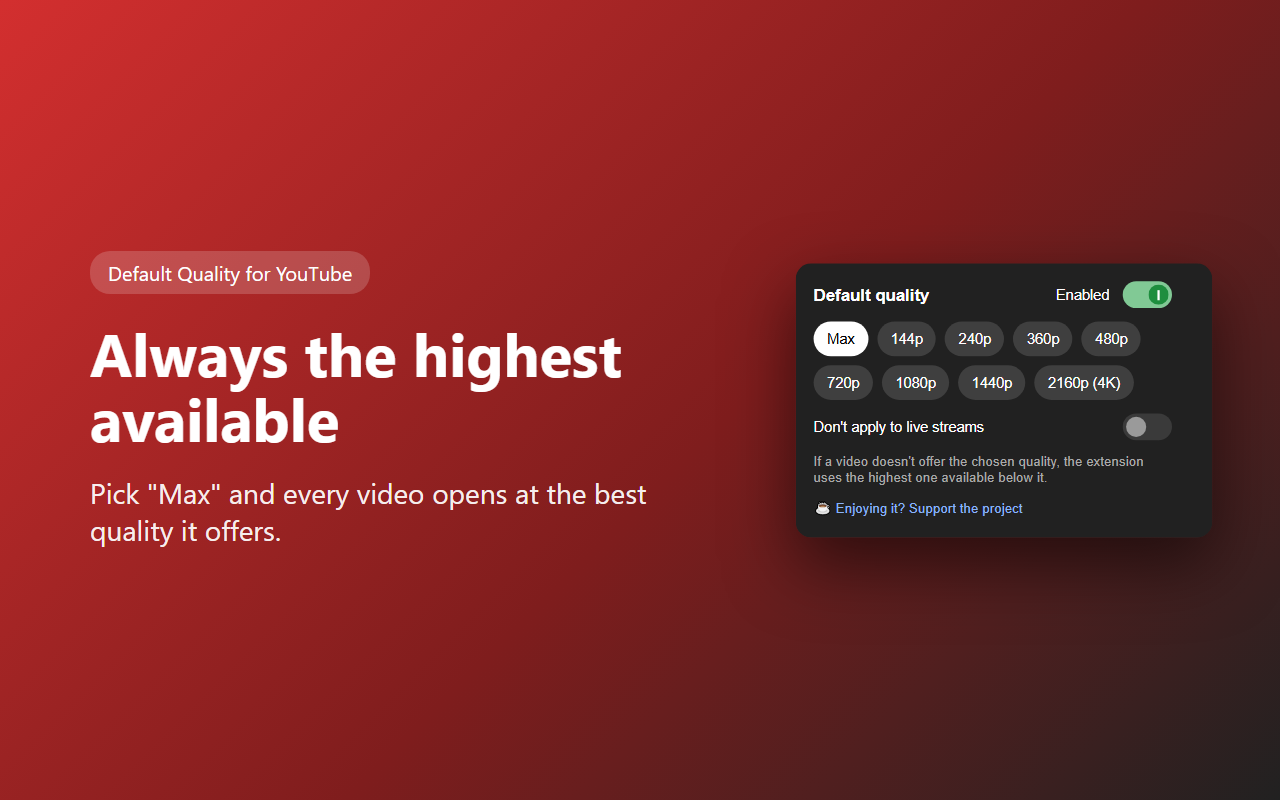
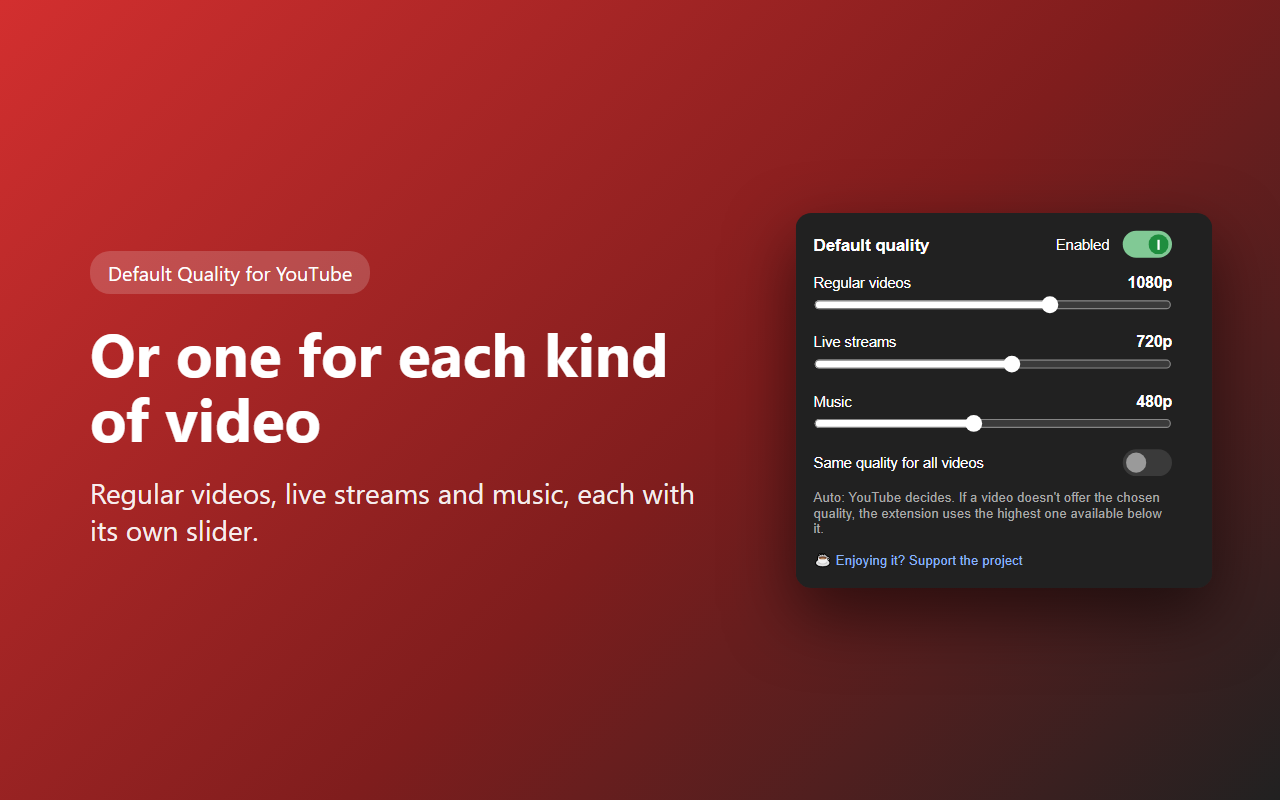
Qualidade por tipo de vídeo, com opção de mesma qualidade para todos

Changed region(s): [[0.625, 0.25, 0.9688, 0.7812], [0.0625, 0.4062, 0.5312, 0.5625], [0.0625, 0.5938, 0.5625, 0.6875]]

diff --git a/main.js b/main.js
@@ -1,4 +1,4 @@
-// Roda no contexto da própria página (world: MAIN) para usar a API do player do YouTube.
+// Roda no contexto da própria página (world MAIN) para usar a API do player do YouTube.
 (() => {
   // Do menor ao maior; "highres" é qualquer coisa acima de 4K.
   const ORDER = ["tiny", "small", "medium", "large", "hd720", "hd1080", "hd1440", "hd2160", "highres"];
@@ -35,14 +35,35 @@
     return levels.reduce((a, b) => (ORDER.indexOf(b) < ORDER.indexOf(a) ? b : a));
   }
 
-  function setQuality() {
+  // Qualidade que deve valer para o vídeo atual, ou null para deixar o YouTube decidir.
+  // "final" = última tentativa: aceita seguir sem saber a categoria do vídeo.
+  function target(final) {
     const c = cfg();
     const p = player();
-    if (!c || !c.enabled || !p) return;
+    if (!c || !c.enabled || !p) return null;
     const d = (typeof p.getVideoData === "function" && p.getVideoData()) || {};
-    if (c.ignoreLive && d.isLive) return;
-    const q = pick(c.quality, p.getAvailableQualityLevels() || []);
-    if (!q) return;
+    const r = (typeof p.getPlayerResponse === "function" && p.getPlayerResponse()) || null;
+    const vd = (r && r.videoDetails) || {};
+    // Durante a troca de vídeo a resposta pode ser a do anterior: espera a próxima tentativa.
+    const known = !r || (vd.videoId && (!d.video_id || vd.videoId === d.video_id));
+    if (!known && !final) return null;
+    const mf = known && r && r.microformat && r.microformat.playerMicroformatRenderer;
+    const kind = c.sameQuality
+      ? "Normal"
+      : d.isLive || vd.isLive
+        ? "Live"
+        : mf && mf.category === "Music"
+          ? "Music"
+          : "Normal";
+    const want = c["quality" + kind];
+    if (!want || want === "auto") return null;
+    return pick(want, p.getAvailableQualityLevels() || []);
+  }
+
+  function setQuality(final) {
+    const p = player();
+    const q = target(final);
+    if (!p || !q) return;
     if (typeof p.setPlaybackQualityRange === "function") p.setPlaybackQualityRange(q, q);
     if (typeof p.setPlaybackQuality === "function") p.setPlaybackQuality(q);
   }
@@ -54,9 +75,11 @@
     const key = v ? v.currentSrc || v.src || location.href : location.href;
     if (!force && key === lastKey) return; // uma vez por vídeo; mudanças manuais ficam
     lastKey = key;
-    setQuality();
-    // A lista de qualidades só fica completa depois de um tempo e o player às vezes reseta; reaplica.
-    [300, 1000, 2500].forEach((ms) => setTimeout(setQuality, ms));
+    setQuality(false);
+    // A lista de qualidades e a categoria só ficam completas depois de um tempo e o player
+    // às vezes reseta; reaplica.
+    [300, 1000].forEach((ms) => setTimeout(() => setQuality(false), ms));
+    setTimeout(() => setQuality(true), 2500);
   }
 
   ["loadedmetadata", "playing"].forEach((ev) =>
@@ -72,12 +95,11 @@
   document.addEventListener("yt-default-quality-changed", () => {
     apply(true);
     setTimeout(() => {
-      const c = cfg();
       const p = player();
-      if (!c || !c.enabled || !p || typeof p.getPlaybackQuality !== "function") return;
-      const want = pick(c.quality, p.getAvailableQualityLevels() || []);
-      if (want && p.getPlaybackQuality() !== want && typeof p.seekTo === "function") {
-        setQuality();
+      const q = target(true);
+      if (!p || !q || typeof p.getPlaybackQuality !== "function") return;
+      if (p.getPlaybackQuality() !== q && typeof p.seekTo === "function") {
+        setQuality(true);
         p.seekTo(p.getCurrentTime(), true);
       }
     }, 700);

diff --git a/popup.js b/popup.js
@@ -6,31 +6,57 @@ document.querySelectorAll("[data-i18n]").forEach((el) => (el.textContent = t(el.
 
 let state = { ...DQ_DEFAULTS };
 
-// "Máxima" primeiro, depois cada nível do menor ao maior.
-const OPTIONS = [["max", t("max")], ...DQ_LEVELS];
-const buttons = OPTIONS.map(([value, label]) => {
-  const b = document.createElement("button");
-  b.className = "level";
-  b.textContent = label;
-  b.onclick = () => {
-    state.quality = value;
-    render();
-    chrome.storage.sync.set({ quality: value });
+// Posições da barra: Automática, cada nível do menor ao maior e Máxima.
+const STEPS = [["auto", t("auto")], ...DQ_LEVELS, ["max", t("max")]];
+const stepOf = (value) => Math.max(0, STEPS.findIndex(([v]) => v === value));
+
+// Uma linha por tipo de vídeo: nome, qualidade atual e a barra.
+const rows = DQ_TYPES.map(([key, label]) => {
+  const row = document.createElement("div");
+  row.className = "type";
+  const head = document.createElement("div");
+  head.className = "head";
+  const name = document.createElement("span");
+  name.textContent = t(label);
+  const value = document.createElement("b");
+  const slider = document.createElement("input");
+  slider.type = "range";
+  slider.min = 0;
+  slider.max = STEPS.length - 1;
+  slider.step = 1;
+  slider.setAttribute("aria-label", t(label));
+  slider.oninput = () => {
+    state[key] = STEPS[slider.value][0];
+    value.textContent = STEPS[slider.value][1];
+    chrome.storage.sync.set({ [key]: state[key] });
   };
-  $("levels").appendChild(b);
-  return b;
+  head.append(name, value);
+  row.append(head, slider);
+  $("types").appendChild(row);
+  return { key, row, name, label, slider, value };
 });
 
 function render() {
-  buttons.forEach((b, i) => b.classList.toggle("active", OPTIONS[i][0] === state.quality));
+  rows.forEach(({ key, row, name, label, slider, value }, n) => {
+    const i = stepOf(state[key]);
+    slider.value = i;
+    value.textContent = STEPS[i][1];
+    // Com "mesma qualidade para todos" só a primeira barra aparece e vale para qualquer vídeo.
+    row.hidden = state.sameQuality && n > 0;
+    name.textContent = t(state.sameQuality && n === 0 ? "typeAll" : label);
+  });
 }
 
-["enabled", "ignoreLive"].forEach((k) => {
-  $(k).onchange = () => {
-    state[k] = $(k).checked;
-    chrome.storage.sync.set({ [k]: state[k] });
-  };
-});
+$("enabled").onchange = () => {
+  state.enabled = $("enabled").checked;
+  chrome.storage.sync.set({ enabled: state.enabled });
+};
+
+$("same").onchange = () => {
+  state.sameQuality = $("same").checked;
+  chrome.storage.sync.set({ sameQuality: state.sameQuality });
+  render();
+};
 
 const donateUrl = dqDonateUrl(chrome.i18n.getUILanguage());
 if (donateUrl) {
@@ -40,6 +66,7 @@ if (donateUrl) {
 
 chrome.storage.sync.get(DQ_DEFAULTS, (s) => {
   state = { ...s };
-  ["enabled", "ignoreLive"].forEach((k) => ($(k).checked = state[k]));
+  $("enabled").checked = state.enabled;
+  $("same").checked = state.sameQuality;
   render();
 });

diff --git a/popup.html b/popup.html
@@ -22,10 +22,10 @@
       background: linear-gradient(#fff, #fff) center / 2px 9px no-repeat #1e8e3e;
     }
     input[type=checkbox]:focus-visible { outline: 2px solid #8ab4f8; outline-offset: 2px; }
-    #levels { display: flex; flex-wrap: wrap; gap: 8px; }
-    .level { border: 0; border-radius: 16px; background: #3f3f3f; color: #fff; padding: 8px 12px; font-size: 13px; cursor: pointer; }
-    .level:hover { background: #555; }
-    .level.active { background: #fff; color: #000; }
+    .type { margin-top: 14px; }
+    .head { display: flex; justify-content: space-between; align-items: baseline; margin-bottom: 4px; }
+    .head b { font-size: 14px; }
+    input[type=range] { width: 100%; margin: 0; accent-color: #fff; cursor: pointer; }
     .hint { color: #aaa; margin-top: 12px; font-size: 12px; }
     #donate { color: #8ab4f8; text-decoration: none; }
     #donate:hover { text-decoration: underline; }
@@ -38,9 +38,8 @@
     <label class="chk" style="margin:0"><input type="checkbox" id="enabled"> <span data-i18n="enabled"></span></label>
   </header>
 
-  <div id="levels"></div>
-
-  <label class="chk"><input type="checkbox" id="ignoreLive"> <span data-i18n="ignoreLive"></span></label>
+  <div id="types"></div>
+  <label class="chk"><input type="checkbox" id="same"> <span data-i18n="same"></span></label>
 
   <div class="hint" data-i18n="hint"></div>
   <div class="hint"><a id="donate" href="#" target="_blank" rel="noopener" hidden data-i18n="donate"></a></div>

diff --git a/defaults.js b/defaults.js
@@ -1,9 +1,18 @@
 // Configurações padrão, compartilhadas por content.js e popup.js.
+// Cada tipo de vídeo tem a sua qualidade: "auto" (o YouTube decide), "max" ou um nível do player.
 const DQ_DEFAULTS = {
-  enabled: true,   // extensão ligada
-  quality: "hd1080", // qualidade desejada: "max" ou um nível do player (tiny..highres)
-  ignoreLive: false, // não aplicar em vídeos ao vivo
+  enabled: true,         // extensão ligada
+  sameQuality: true,     // mesma qualidade para todos os tipos (usa a de vídeos comuns)
+  qualityNormal: "hd1080", // vídeos comuns
+  qualityLive: "hd1080",   // transmissões ao vivo
+  qualityMusic: "hd1080",  // vídeos da categoria Música
 };
+// Tipos de vídeo, na ordem em que aparecem no popup: [chave salva, texto traduzido].
+const DQ_TYPES = [
+  ["qualityNormal", "typeNormal"],
+  ["qualityLive", "typeLive"],
+  ["qualityMusic", "typeMusic"],
+];
 // Níveis do player do YouTube, do menor ao maior, com o rótulo mostrado no popup.
 const DQ_LEVELS = [
   ["tiny", "144p"],

diff --git a/store/listagem.md b/store/listagem.md
@@ -24,10 +24,11 @@ Português (Brasil). Adicione também a tradução em inglês abaixo.
 Chega de abrir o YouTube em 360p e ter que trocar a qualidade em todo vídeo. Escolha uma qualidade padrão e a extensão aplica automaticamente em cada vídeo que você abrir.
 
 RECURSOS
-• Qualidade padrão à sua escolha: 144p, 240p, 360p, 480p, 720p, 1080p, 1440p ou 2160p (4K).
-• Opção "Máxima": cada vídeo abre na melhor qualidade que ele oferece.
+• Simples por padrão: uma única barra de qualidade vale para todos os vídeos.
+• Se quiser, desligue "Mesma qualidade para todos" e escolha uma qualidade para cada tipo: vídeos comuns, transmissões ao vivo e músicas.
+• De 144p a 2160p (4K), ou "Máxima": cada vídeo abre na melhor qualidade que ele oferece.
+• "Automática": deixa o YouTube decidir naquele tipo de vídeo.
 • Se o vídeo não tiver a qualidade escolhida, usa a mais alta disponível abaixo dela.
-• Não aplicar em vídeos ao vivo (opção).
 • Liga/desliga num clique.
 • Mudanças manuais de qualidade durante o vídeo são respeitadas até o próximo vídeo.
 • Funciona também nos Shorts.
@@ -47,10 +48,11 @@ Esta extensão não é afiliada, endossada nem patrocinada pelo YouTube ou pelo 
 Stop starting YouTube at 360p and changing the quality on every video. Pick a default quality and the extension applies it automatically to every video you open.
 
 FEATURES
-• Default quality of your choice: 144p, 240p, 360p, 480p, 720p, 1080p, 1440p or 2160p (4K).
-• "Max" option: every video opens at the best quality it offers.
+• Simple by default: a single quality slider applies to all videos.
+• If you want, turn off "Same quality for all videos" and pick a quality for each kind: regular videos, live streams and music.
+• From 144p to 2160p (4K), or "Max": every video opens at the best quality it offers.
+• "Auto": lets YouTube decide for that kind of video.
 • If a video doesn't offer your chosen quality, it uses the highest one available below it.
-• Optional: don't apply to live streams.
 • One-click on/off.
 • Manual quality changes during a video are respected until the next video.
 • Also works on Shorts.
@@ -71,6 +73,7 @@ Definir e manter uma qualidade de vídeo padrão nos vídeos do YouTube.
 ## Justificativa das permissões (aba "Práticas de privacidade")
 
 - **storage**: guarda as configurações do usuário (qualidade padrão e opções) no navegador.
+- **Leitura de dados do vídeo**: o script lê do player as qualidades disponíveis, se o vídeo é ao vivo e sua categoria (Música), só para decidir se aplica a qualidade. Nada sai da página.
 - **Acesso ao host (youtube.com / m.youtube.com)**: necessário para aplicar a qualidade no player do YouTube. Os scripts rodam apenas nessas páginas.
 - **Script na página (world MAIN)**: usa a API do próprio player do YouTube (setPlaybackQualityRange) para trocar a qualidade. Nenhum dado sai da página.
 - **Código remoto**: a extensão NÃO usa código remoto. Todo o código está no pacote.

diff --git a/README.md b/README.md
@@ -6,9 +6,9 @@ Chrome extension that sets the default YouTube video quality (e.g. always 1080p 
 
 ## Recursos / Features
 
-- Qualidade padrão de 144p a 2160p (4K), ou "Máxima" / Default quality from 144p to 2160p (4K), or "Max".
+- Uma barra para todos os vídeos, ou (desligando "Mesma qualidade para todos") uma para cada tipo: comuns, ao vivo e músicas / One slider for all videos, or (turning off "Same quality for all videos") one per kind: regular, live and music.
+- De 144p a 2160p (4K), "Máxima" ou "Automática" (o YouTube decide) / From 144p to 2160p (4K), "Max" or "Auto" (YouTube decides).
 - Se o vídeo não tiver a qualidade escolhida, usa a mais alta disponível abaixo dela / If the video doesn't offer it, uses the highest one below.
-- Opção de não aplicar em vídeos ao vivo / Optional: skip live streams.
 - Funciona nos Shorts / Works on Shorts.
 - Mudanças manuais durante o vídeo são respeitadas até o próximo vídeo / Manual changes are respected until the next video.
 - Sem coleta de dados, sem servidor, sem código remoto / No data collection, no server, no remote code.
